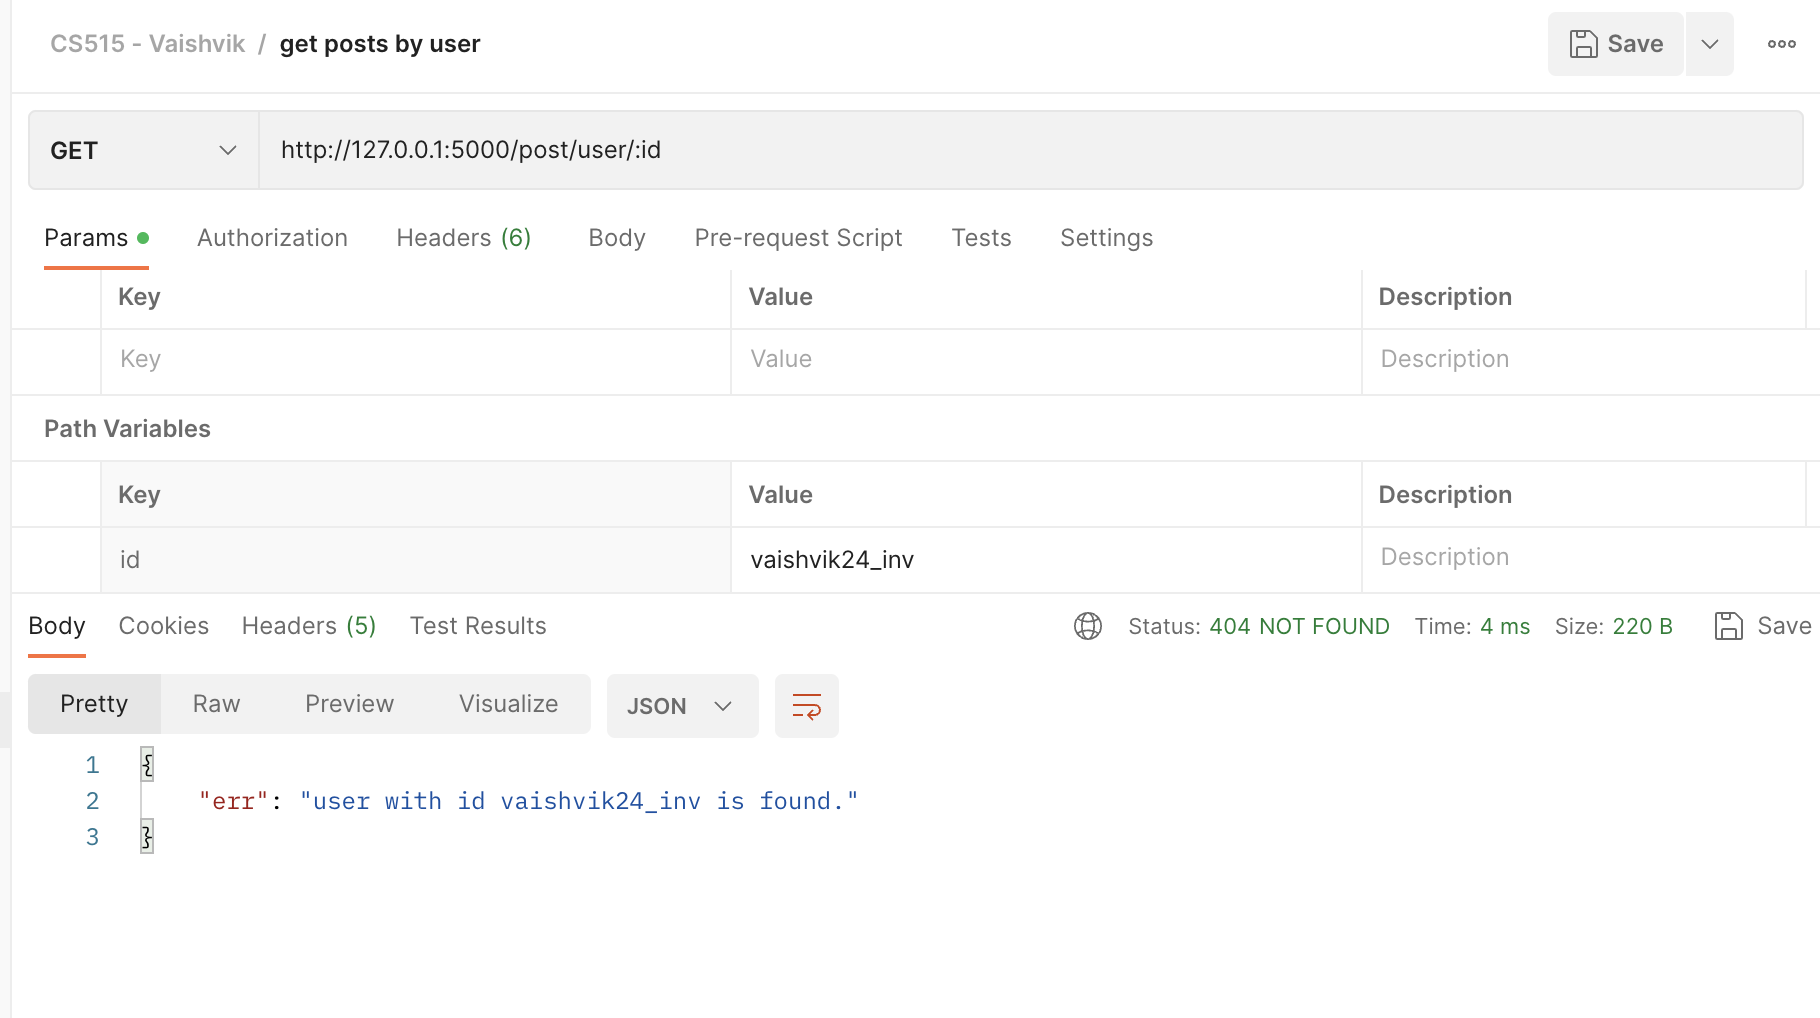
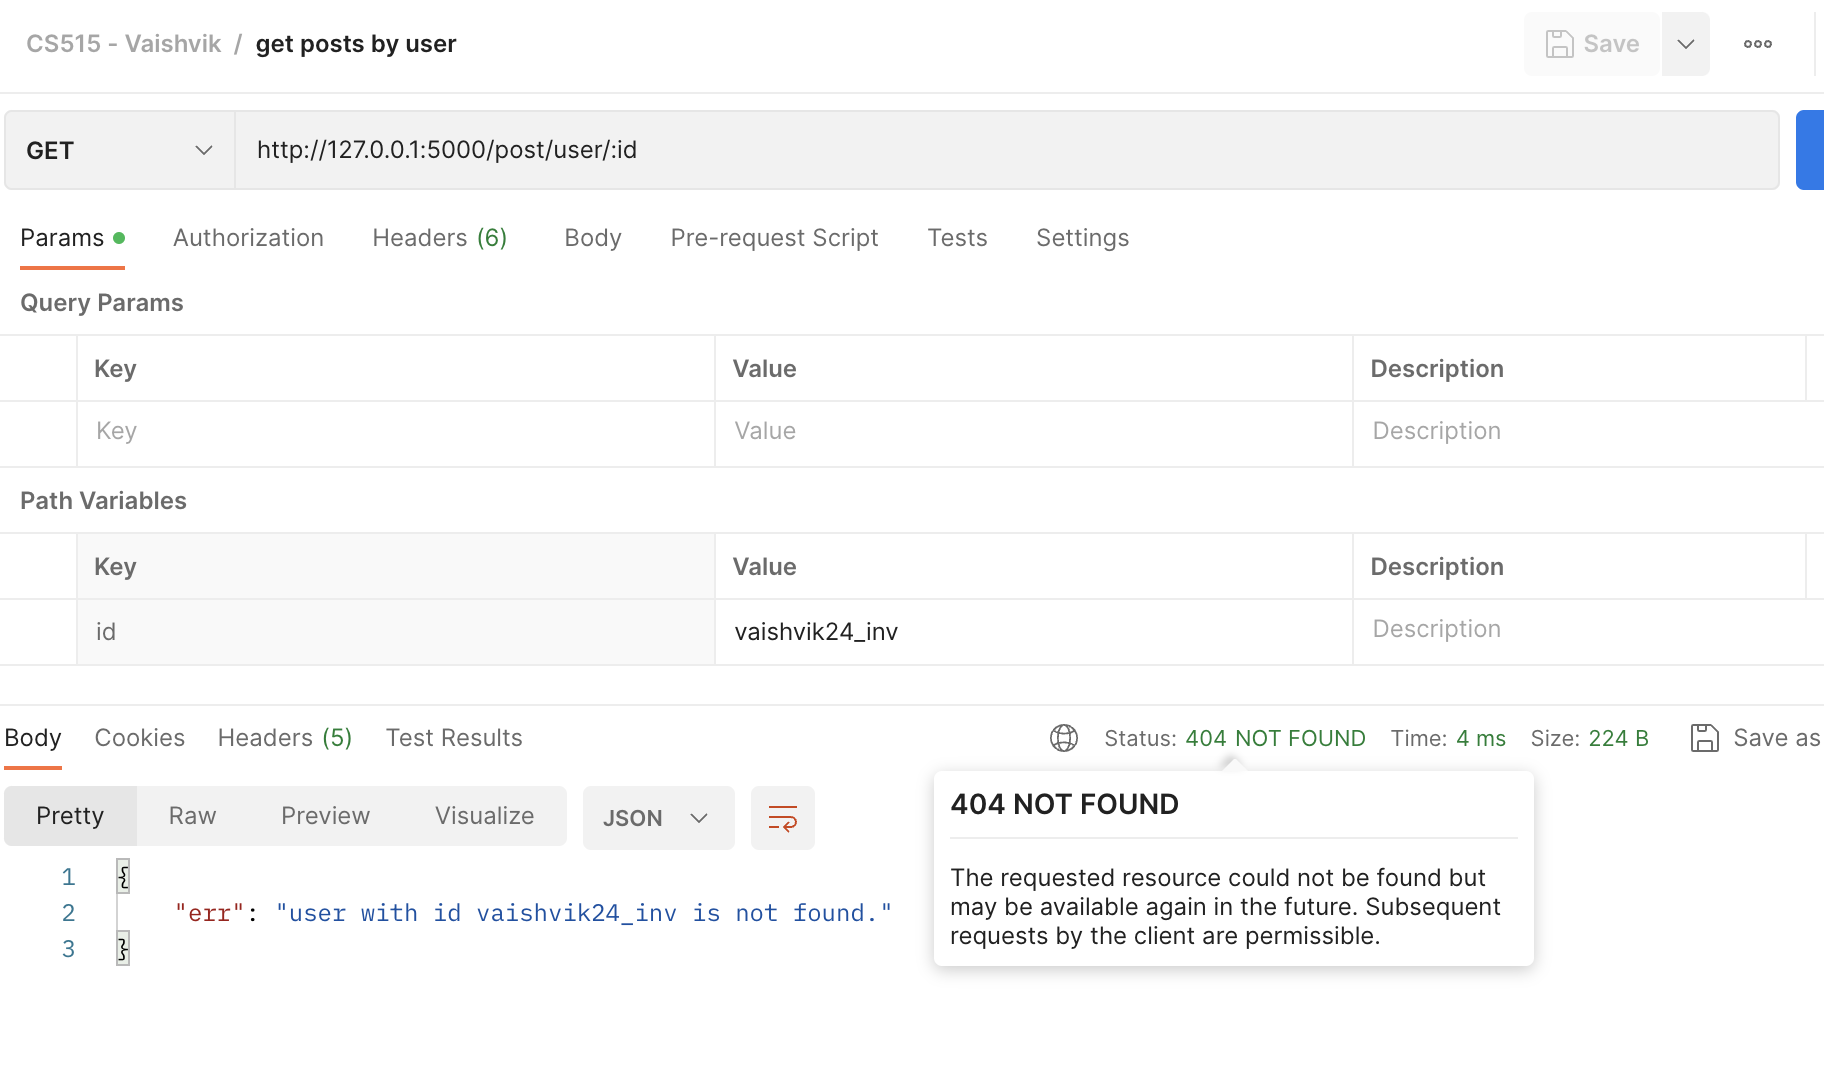
Vaishvik: readme changes

diff --git a/app.py b/app.py
@@ -268,7 +268,7 @@ def handle_update_user(user_id):
     :return: updates metadata of the given user
     """
     if user_id not in users:
-        error = {'err': f'user with id {user_id} is found.'}
+        error = {'err': f'user with id {user_id} is not found.'}
         return jsonify(error), HTTPStatus.NOT_FOUND.value
     curr_user = update_user(request.json, user_id)
     return jsonify(curr_user), HTTPStatus.OK.value
@@ -299,7 +299,7 @@ def handle_get_user(user_id):
     :return: returns user for given query param user_id
     """
     if user_id not in users:
-        error = {'err': f'user with id {user_id} is found.'}
+        error = {'err': f'user with id {user_id} is not found.'}
         return jsonify(error), HTTPStatus.NOT_FOUND.value
     curr_user = get_user(user_id)
     return jsonify(curr_user), HTTPStatus.OK.value
@@ -313,7 +313,7 @@ def handle_user_posts(user_id):
     """
     users_posts = []
     if user_id not in users:
-        error = {'err': f'user with id {user_id} is found.'}
+        error = {'err': f'user with id {user_id} is not found.'}
         return jsonify(error), HTTPStatus.NOT_FOUND.value
     for post in posts:
         if posts[post].get('user_id') is not None and posts[post].get('user_id') == user_id:

diff --git a/README.md b/README.md
@@ -136,7 +136,7 @@ Each extension is described as below:
    - Consider the base_url: http://127.0.0.1:5000/
    - Create Post for a user: 
      ```http
-     GET /post
+     POST /post
      ```
   
     - Request body: it includes a json object having message, id and key of the user.
